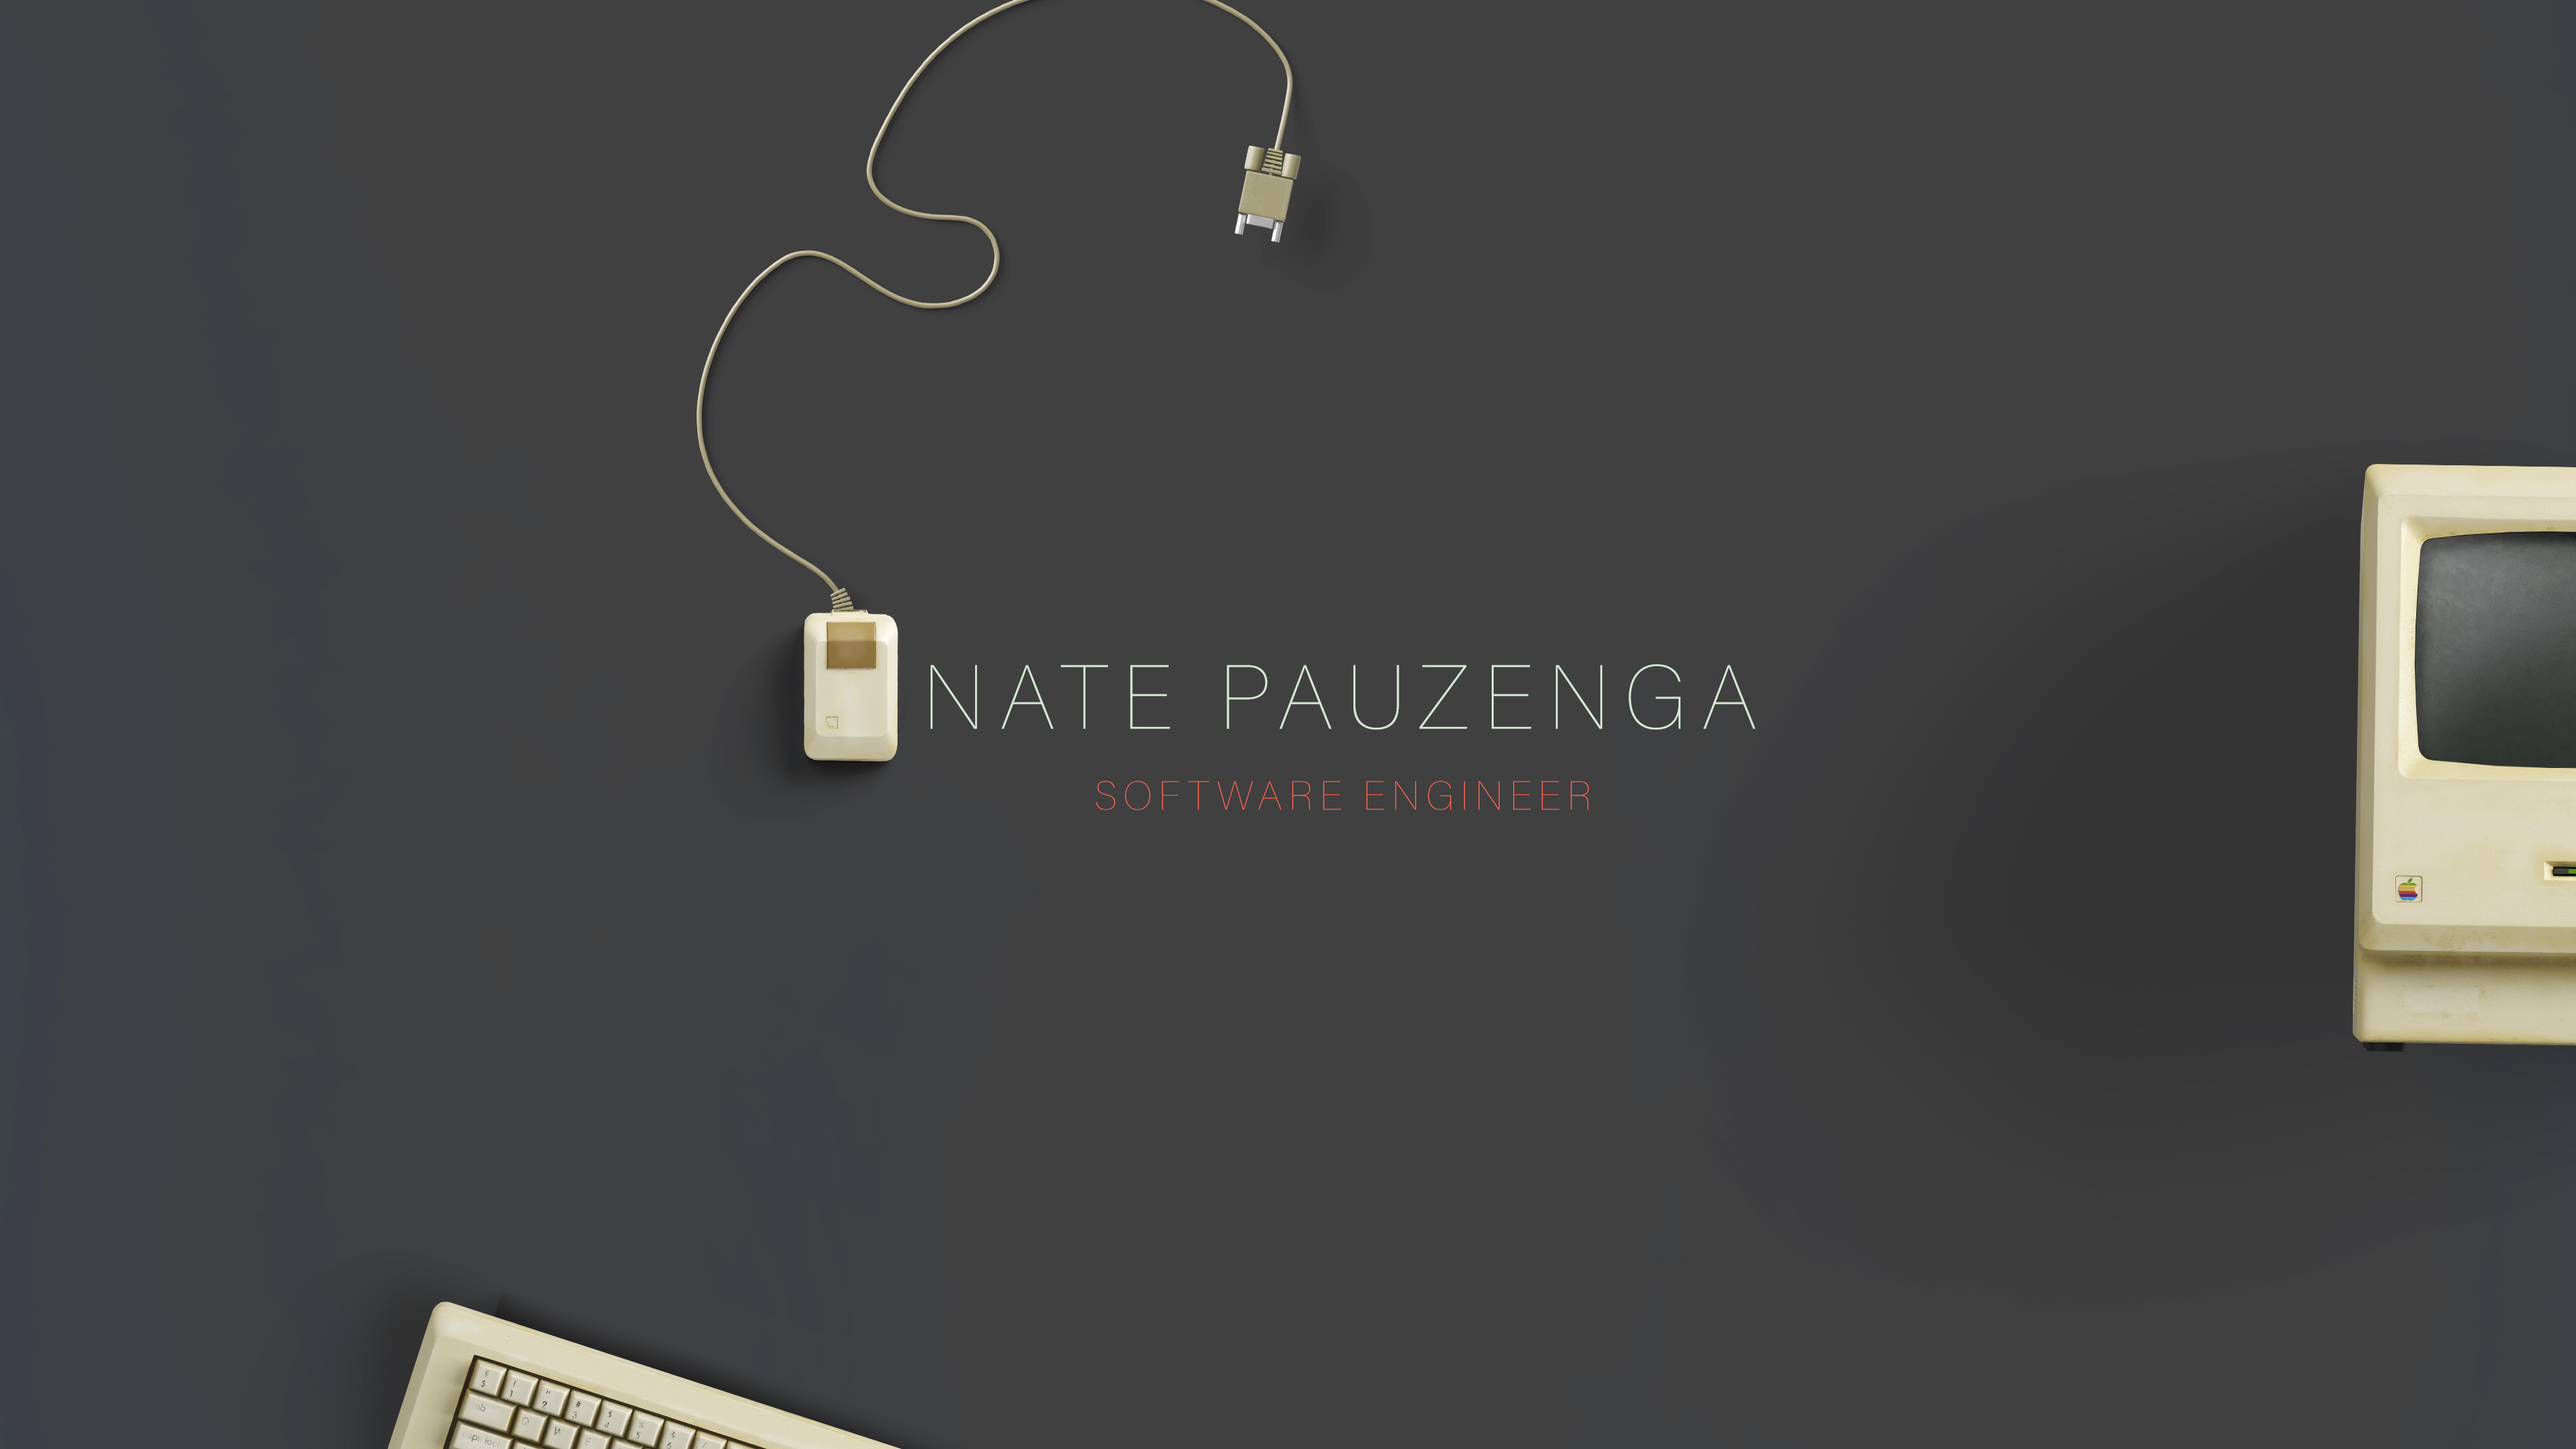
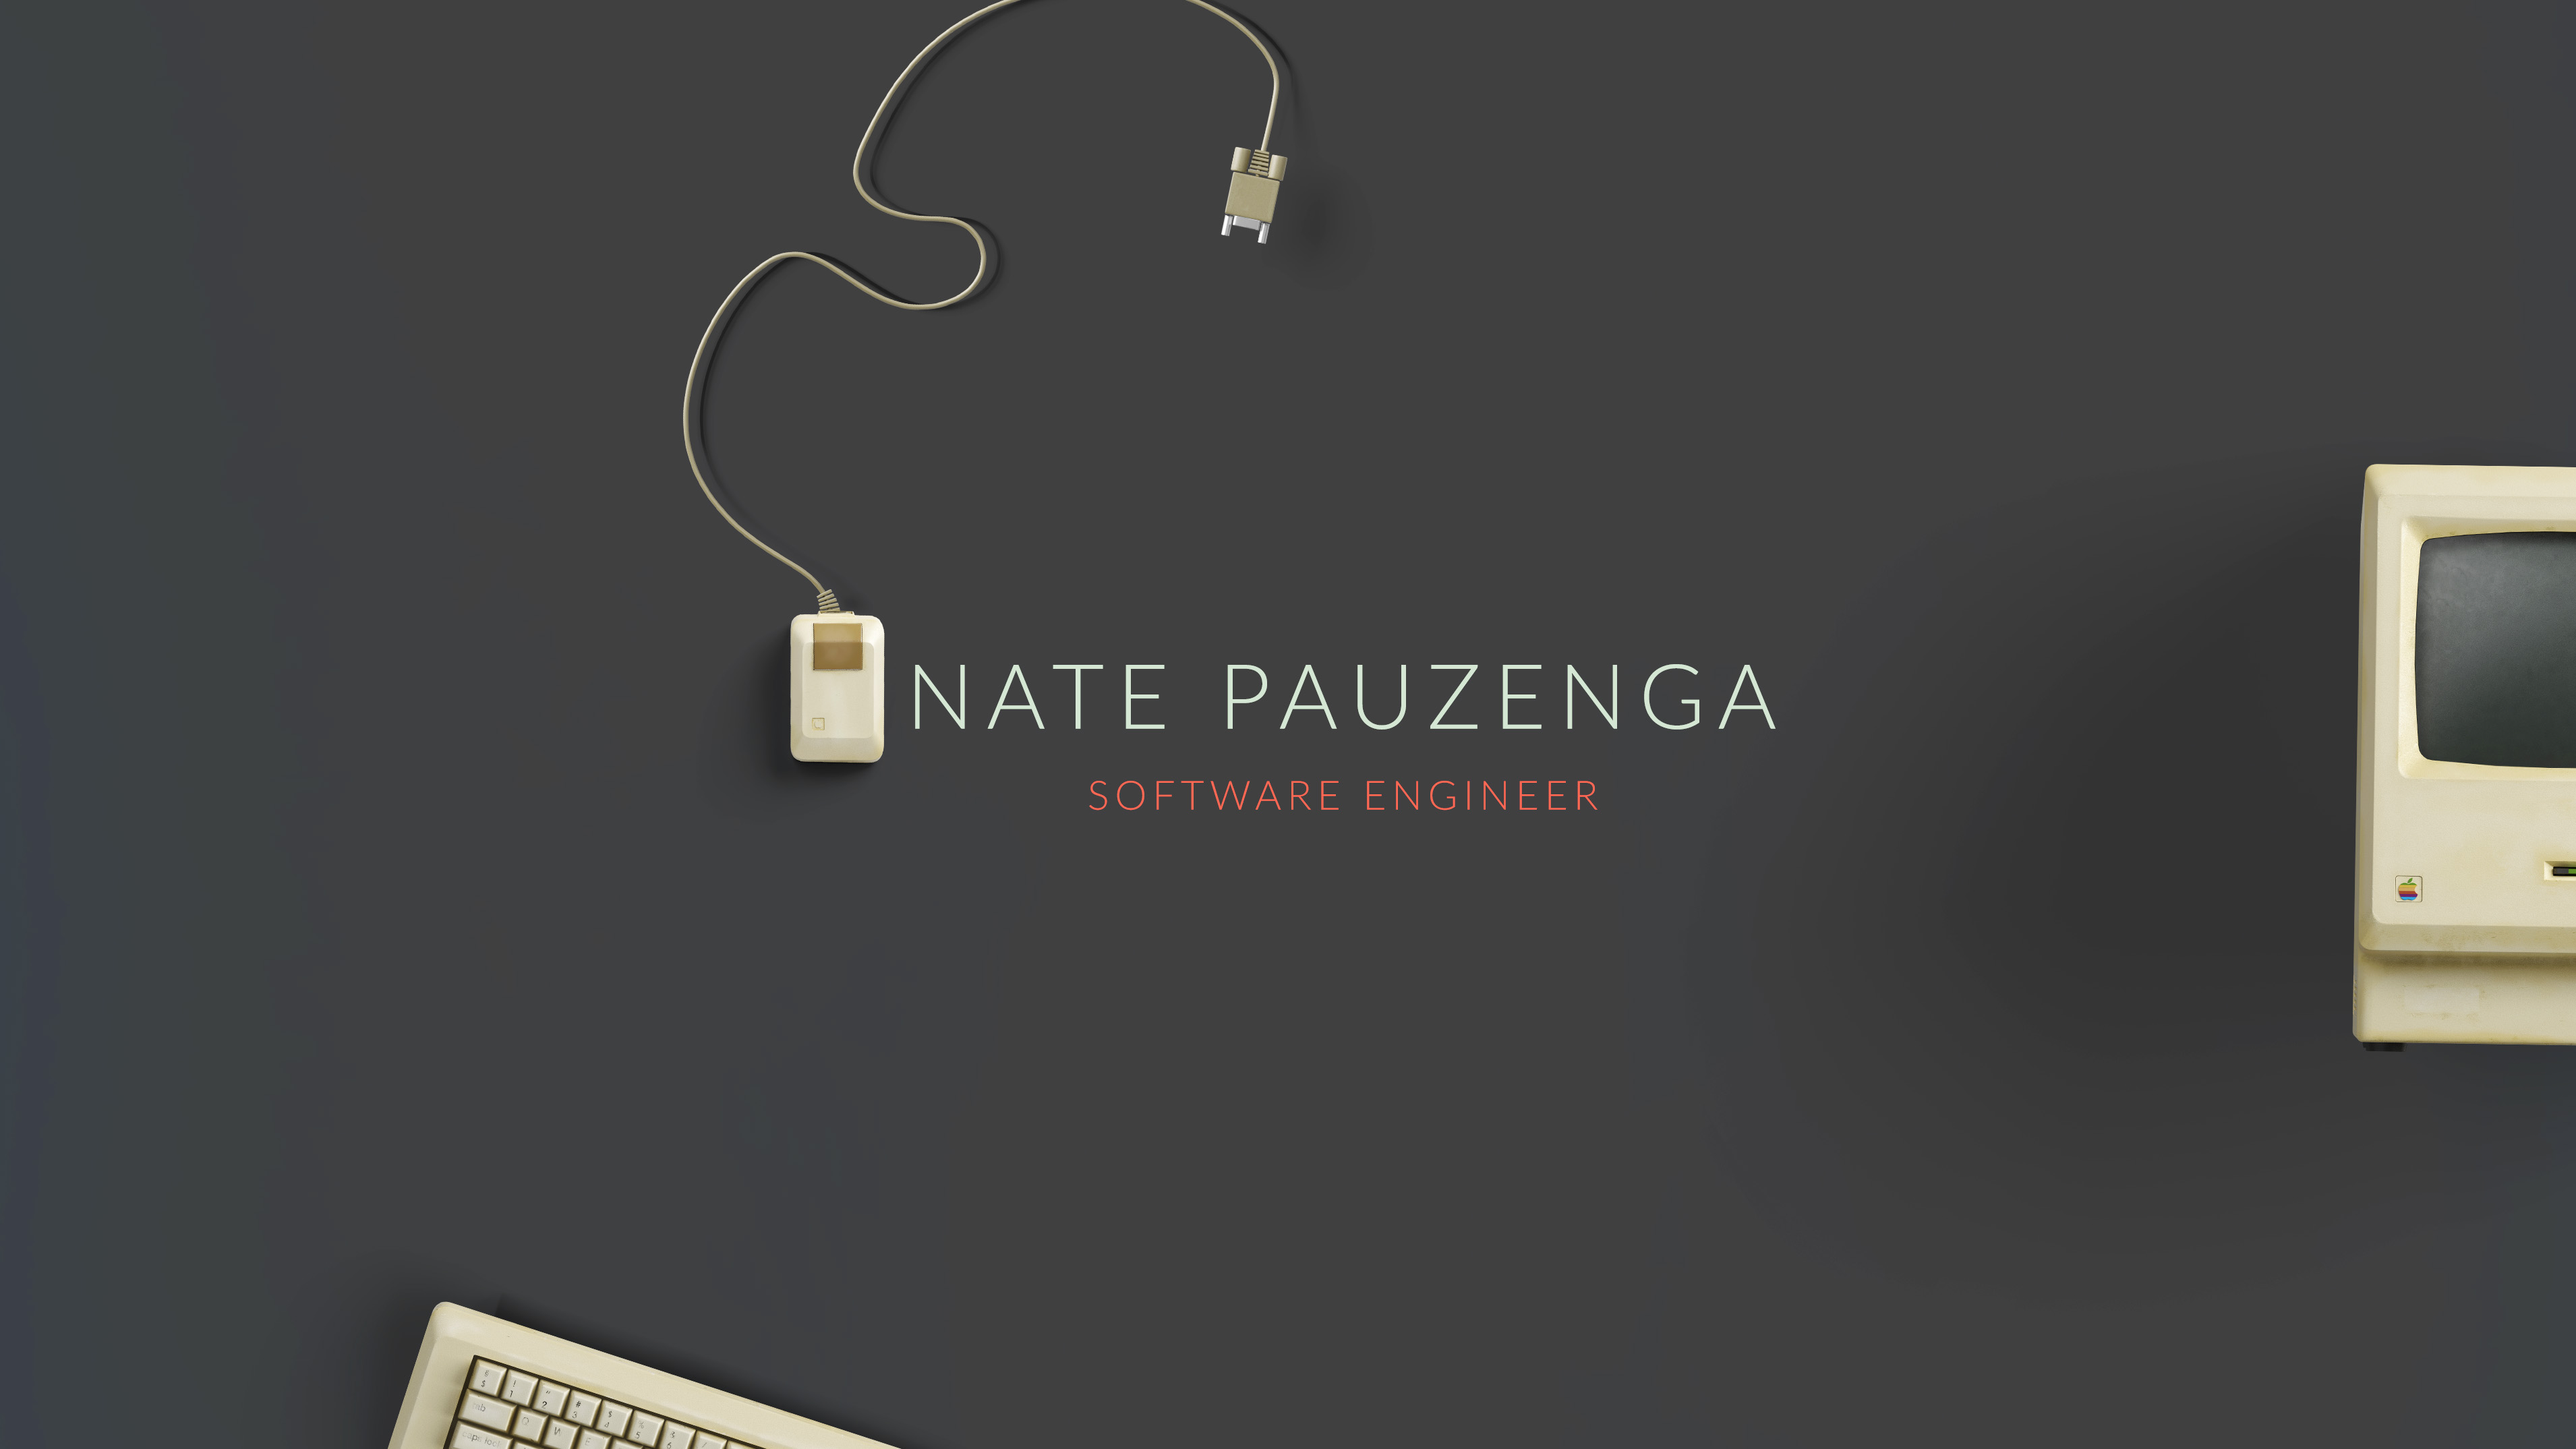
settle on fonts and colors, add dummy posts for new projects

diff --git a/index.html b/index.html
@@ -50,17 +50,19 @@ layout: default
 
 <div class="work">
   <h2>Work</h2>
-  {% for project in site.portfolio limit:3 %}
-  <div class="project">
-    <div class="project-thumb">
-      <a href="{{ project.url | prepend: site.baseurl }}">
-        <img src="{{ project.thumbnail-path }}" alt="{{ project.title }}"/>
-      </a>
+  <div class="projects-grid">
+    {% for project in site.portfolio limit:6 %}
+    <div class="project">
+      <div class="project-thumb">
+        <a href="{{ project.url | prepend: site.baseurl }}">
+          <img src="{{ project.thumbnail-path }}" alt="{{ project.title }}"/>
+        </a>
+      </div>
+      <div class="project-description">
+        <a href="{{ project.url | prepend: site.baseurl }}"><strong>{{ project.title }}</strong></a>
+        <p>{{ project.short-description }}</p>
+      </div>
     </div>
-    <div class="project-description">
-      <a href="{{ project.url | prepend: site.baseurl }}"><strong>{{ project.title }}</strong></a>
-      <p>{{ project.short-description }}</p>
-    </div>
+    {% endfor %}
   </div>
-  {% endfor %}
 </div>

diff --git a/_sass/base/_variables.scss b/_sass/base/_variables.scss
@@ -1,6 +1,7 @@
 // Typography
-$font-family-main: 'Lato', Helvetica, Arial, sans-serif;
-$font-family-headings: 'Abril Fatface', Georgia, serif, cursive;
+$font-family-header: "acumin-pro", "Helvetica Neue", Helvetica, Arial, sans-serif;
+$font-family-main: 'Lato', "Helvetica Neue", Helvetica, Arial, sans-serif;
+$font-family-headings: 'futura-pt', "Helvetica Neue", Helvetica, Arial, sans-serif;
 $font-size: 1.25em;
 
 // Padding
@@ -13,6 +14,7 @@ $matte: #414141;
 $fresh: #CCDFCB;
 $watermelon: #FF6A5C;
 $teal: #056571;
+$beige: #F0EFEC;
 
 // Brand colours
 $brand-color: #fff;
@@ -20,9 +22,9 @@ $background-color: #fff;
 $border-color: rgba(0, 0, 0, 0.1); // rgba recommended if using feature images
 
 // Typography colours
-$text-color: #4a4a4a;
-$link-color: $fresh;
-$selection-color: #D4D4D4; // visible when highlighting text
+$text-color: $matte;
+$link-color: $watermelon;
+$selection-color: $fresh; // visible when highlighting text
 
 // Header colours
 $header-link-color: $fresh;

diff --git a/_sass/layouts/_index.scss b/_sass/layouts/_index.scss
@@ -71,19 +71,29 @@
 }
 
 // Work listing
+.projects-grid {
+  display: flex;
+  flex-wrap: wrap;
+  justify-content: space-around;
+}
+
 .work {
   @extend %padding-regular;
   background-size: $feature-image-size;
+  background-color: #F0EFEC;
   text-align: center;
   display: block;
   float: left;
   width: 100%;
+  margin-top: 5%;
+  padding-left: 5%;
+  padding-right: 5%;
   .project {
     display: block;
     float: left;
-    clear:both;
-    width:100%;
-    margin:2em auto;
+    clear: both;
+    width: 400px;
+    margin: 2em auto;
     .project-thumb {
       width: 100%;
       float: left;

diff --git a/_sass/base/_global.scss b/_sass/base/_global.scss
@@ -122,6 +122,9 @@ a {
   margin: 0;
   padding: 0;
 }
+.content {
+  -webkit-font-smoothing: antialiased;
+}
 // Responsive media
 iframe, img, embed, object, video {
   max-width: 100%;

diff --git a/_sass/includes/_header.scss b/_sass/includes/_header.scss
@@ -8,7 +8,7 @@
 
   a {
     color: $header-link-color;
-    font-family: "acumin-pro", sans-serif;
+    font-family: $font-family-header;
     font-weight: 200;
   }
 

diff --git a/_portfolio/faker.md b/_portfolio/faker.md
@@ -1,6 +1,6 @@
 ---
 layout: post
-title: Human Rights & Toxics
+title: Faker Ruby Gem
 thumbnail-path: "img/srtoxics.png"
 short-description: A site for the United Nations Special Rapporteur on Human Rights & Toxics
 

diff --git a/_portfolio/smoke_and_fumes.md b/_portfolio/smoke_and_fumes.md
@@ -1,6 +1,6 @@
 ---
 layout: post
-title: Human Rights & Toxics
+title: Smoke & Fumes
 thumbnail-path: "img/srtoxics.png"
 short-description: A site for the United Nations Special Rapporteur on Human Rights & Toxics
 
